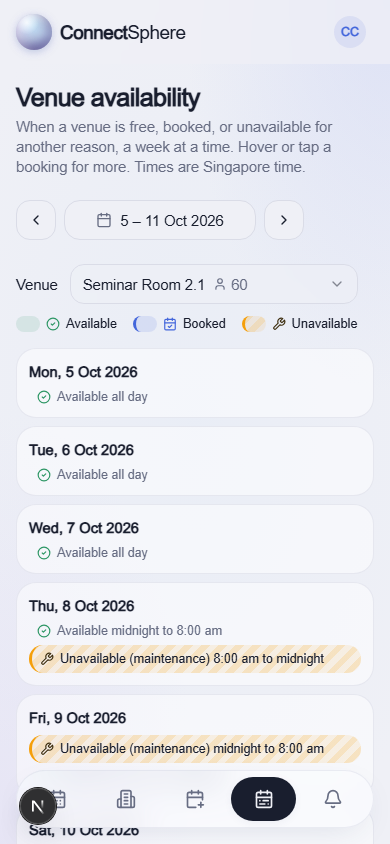
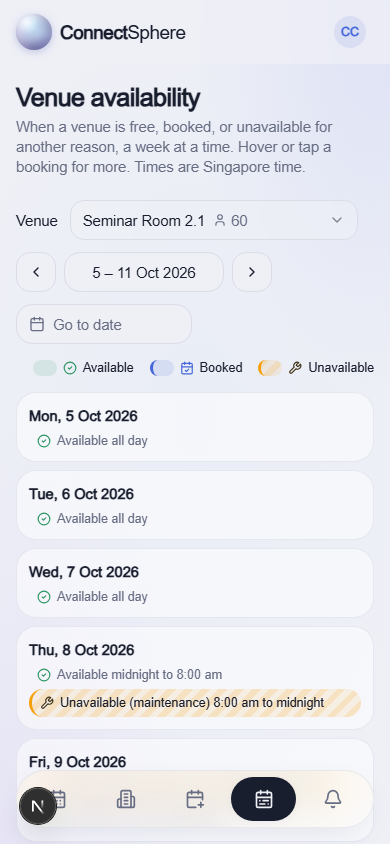
SCRUM-36 lay the calendar's controls out in three rows
Row one holds Record unavailability on the right; row two the venue, the
week (arrows around its dates) and a separate Go to date; row three the
legend on the right. A day with nothing on it says Available all day at
the top of its column, pinned under the date while the grid scrolls,
instead of beside the date.

diff --git a/app/(app)/venues/availability/availability-calendar.tsx b/app/(app)/venues/availability/availability-calendar.tsx
@@ -1,4 +1,4 @@
-import type { CSSProperties, ReactNode } from "react";
+import type { CSSProperties } from "react";
 import {
   CalendarCheck,
   CircleCheck,
@@ -140,13 +140,10 @@ export function AvailabilityCalendar({
   venueName,
   days,
   today,
-  venuePicker,
 }: {
   venueName: string;
   days: AvailabilityDay[];
   today: string;
-  /** The venue filter, shown at the top of the calendar. */
-  venuePicker: ReactNode;
 }) {
   const from = days[0].day;
   const to = days[days.length - 1].day;
@@ -157,8 +154,7 @@ export function AvailabilityCalendar({
       <h2 id="calendar-heading" className="sr-only">
         {venueName}, {range}
       </h2>
-      <div className="flex flex-wrap items-center justify-between gap-3">
-        {venuePicker}
+      <div className="flex justify-end">
         <Legend />
       </div>
 
@@ -238,25 +234,13 @@ function WeekGrid({
                     <span className="text-[11px] font-medium uppercase tracking-wide text-muted-foreground">
                       {formatWeekdayDate(noon(day)).split(",")[0]}
                     </span>
-                    <span className="flex items-baseline gap-2">
-                      <span
-                        className={cn(
-                          "text-xl font-semibold leading-tight",
-                          isToday && "text-primary",
-                        )}
-                      >
-                        {Number(day.slice(8))}
-                      </span>
-                      {/* A day with nothing on it says so where it is seen. */}
-                      {segments.length === 1 && (
-                        <span
-                          aria-hidden
-                          className="flex items-center gap-1 text-[11px] text-success"
-                        >
-                          <CircleCheck className="h-3 w-3" />
-                          Free all day
-                        </span>
+                    <span
+                      className={cn(
+                        "text-xl font-semibold leading-tight",
+                        isToday && "text-primary",
                       )}
+                    >
+                      {Number(day.slice(8))}
                     </span>
                   </div>
                   <ul
@@ -266,6 +250,18 @@ function WeekGrid({
                       backgroundImage: `repeating-linear-gradient(to bottom, transparent 0 ${HOUR_PX - 1}px, hsl(var(--border) / 0.6) ${HOUR_PX - 1}px ${HOUR_PX}px)`,
                     }}
                   >
+                    {/* A day with nothing on it says so at the top of its
+                        column, pinned under the date while the grid scrolls. */}
+                    {segments.length === 1 && (
+                      <li
+                        aria-hidden
+                        data-free-all-day
+                        className="sticky top-16 z-10 flex items-center gap-1 px-2 py-1.5 text-[11px] font-medium text-success"
+                      >
+                        <CircleCheck className="h-3 w-3 shrink-0" />
+                        Available all day
+                      </li>
+                    )}
                     {segments.map((segment) => {
                       const offset =
                         segment.startAt.getTime() - startOfSgDay(day).getTime();
@@ -331,7 +327,7 @@ function Stretch({
         <span className="sr-only" data-summary>
           {words}
         </span>
-        {segment.kind === "free" && hours >= 2 && (
+        {segment.kind === "free" && hours >= 2 && !wholeDay && (
           <span
             aria-hidden
             className="flex items-center gap-1 px-2 pt-1.5 text-[11px] text-muted-foreground/70"

diff --git a/e2e/availability.spec.ts b/e2e/availability.spec.ts
@@ -210,10 +210,12 @@ test.describe("SCRUM-36 / SCRUM-37 — venue availability calendar and recorded 
     const coordinator = await signedIn(browser, "coordinator@test.local");
     await coordinator.goto(calendarFor("ven_boardroom", "2036-06-04"));
 
-    // Every day says so under its date, rather than the grid reading as blank.
-    await expect(
-      coordinator.locator('[data-view="week"]').getByText("Free all day"),
-    ).toHaveCount(7);
+    // Every day says so at the top of its column, rather than reading as blank.
+    const freeAllDay = coordinator.locator(
+      '[data-view="week"] li[data-day] [data-free-all-day]',
+    );
+    await expect(freeAllDay).toHaveCount(7);
+    await expect(freeAllDay.first()).toHaveText("Available all day");
     await expect(
       coordinator.locator('[data-view="week"] li[data-day]'),
     ).toHaveCount(7);
@@ -236,9 +238,9 @@ test.describe("SCRUM-36 / SCRUM-37 — venue availability calendar and recorded 
     });
 
     await expect(heading).toContainText("28 Jan 2036 to 3 Feb 2036");
-    // The week's dates sit between the arrows, and open the date picker.
-    const week = coordinator.getByRole("button", { name: "Go to date" });
-    await expect(week).toContainText("28 Jan – 3 Feb 2036");
+    // The week's dates sit between the arrows.
+    const week = coordinator.getByTestId("week-range");
+    await expect(week).toHaveText("28 Jan – 3 Feb 2036");
     await expect(
       coordinator.locator('[data-view="week"] li[data-day]'),
     ).toHaveCount(7);
@@ -250,7 +252,14 @@ test.describe("SCRUM-36 / SCRUM-37 — venue availability calendar and recorded 
     await expect(heading).toContainText("28 Jan 2036 to 3 Feb 2036");
     await coordinator.getByRole("button", { name: "Previous week" }).click();
     await expect(heading).toContainText("21 Jan 2036 to 27 Jan 2036");
-    await expect(week).toContainText("21 – 27 Jan 2036");
+    await expect(week).toHaveText("21 – 27 Jan 2036");
+
+    // Go to date jumps straight to the week containing the chosen day.
+    await coordinator.getByRole("button", { name: "Go to date" }).click();
+    await coordinator.getByRole("menuitem", { name: "Next month" }).click();
+    // Wed 20 Feb 2036 is in the week of Mon 18 Feb.
+    await coordinator.locator('[data-date="2036-02-20"]').click();
+    await expect(week).toHaveText("18 – 24 Feb 2036");
   });
 
   test("SCRUM-36 — a screen reader hears the venue and date for each day", async ({

diff --git a/app/(app)/venues/availability/page.tsx b/app/(app)/venues/availability/page.tsx
@@ -11,7 +11,7 @@ import {
 } from "@/lib/venue-availability";
 import { AvailabilityCalendar } from "./availability-calendar";
 import { formatWeekRange, parseWeek } from "./week";
-import { VenuePicker, WeekNav } from "./week-controls";
+import { GoToDate, VenuePicker, WeekNav } from "./week-controls";
 import { RecordUnavailabilityForm } from "./record-unavailability-form";
 
 type SearchParams = Promise<Record<string, string | string[] | undefined>>;
@@ -68,30 +68,34 @@ export default async function AvailabilityPage({
       </div>
 
       {venue ? (
-        <>
-          <div className="flex flex-wrap items-center justify-between gap-3">
-            <WeekNav
-              venueId={venue.id}
-              week={from}
-              label={formatWeekRange(from, to)}
-            />
-            {can(session.user, "unavailability:record") && (
+        <div className="space-y-4">
+          {/* Row 1 — Venue Staff record unavailability, on the right. */}
+          {can(session.user, "unavailability:record") && (
+            <div className="flex justify-end">
               <RecordUnavailabilityForm
                 key={venue.id}
                 venueId={venue.id}
                 venueName={venue.name}
               />
-            )}
+            </div>
+          )}
+          {/* Row 2 — which venue, which week, or jump to a date. */}
+          <div className="flex flex-wrap items-center gap-3">
+            <VenuePicker venues={venues} venueId={venue.id} week={from} />
+            <WeekNav
+              venueId={venue.id}
+              week={from}
+              label={formatWeekRange(from, to)}
+            />
+            <GoToDate venueId={venue.id} week={from} />
           </div>
+          {/* Row 3 (the legend) and the calendar itself. */}
           <AvailabilityCalendar
             venueName={venue.name}
             days={availabilityByDay(blockers, from, to)}
             today={today}
-            venuePicker={
-              <VenuePicker venues={venues} venueId={venue.id} week={from} />
-            }
           />
-        </>
+        </div>
       ) : (
         <p className="text-sm text-muted-foreground">
           There are no venues in the catalogue yet.

diff --git a/app/(app)/venues/availability/week-controls.tsx b/app/(app)/venues/availability/week-controls.tsx
@@ -32,8 +32,7 @@ function useShow(venueId: string, week: string) {
 
 /**
  * SCRUM-36 AC7 — which week the calendar shows: arrows either side of the
- * week's dates, and the dates themselves open a calendar to jump to any week.
- * Also keeps an open calendar fresh (SCRUM-37 AC1).
+ * week's dates. Also keeps an open calendar fresh (SCRUM-37 AC1).
  */
 export function WeekNav({
   venueId,
@@ -73,16 +72,13 @@ export function WeekNav({
       >
         <ChevronLeft className="h-4 w-4" />
       </Button>
-      <DatePicker
-        id="goToDate"
-        label="Go to"
-        value=""
-        openOn={week}
-        display={label}
-        allowPast
-        onChange={(day) => show({ week: day })}
-        className="min-w-48 justify-center"
-      />
+      <p
+        data-testid="week-range"
+        aria-live="polite"
+        className="flex h-10 min-w-40 items-center justify-center rounded-lg border bg-background px-3 text-sm font-medium"
+      >
+        {label}
+      </p>
       <Button
         variant="outline"
         size="icon"
@@ -92,6 +88,23 @@ export function WeekNav({
         <ChevronRight className="h-4 w-4" />
       </Button>
     </div>
+  );
+}
+
+/** SCRUM-36 AC7 — jump straight to the week containing any date. */
+export function GoToDate({ venueId, week }: { venueId: string; week: string }) {
+  const show = useShow(venueId, week);
+  return (
+    <DatePicker
+      id="goToDate"
+      label="Go to"
+      value=""
+      openOn={week}
+      placeholder="Go to date"
+      allowPast
+      onChange={(day) => show({ week: day })}
+      className="w-44"
+    />
   );
 }
 

diff --git a/docs/testing/SCRUM-36.md b/docs/testing/SCRUM-36.md
@@ -77,7 +77,7 @@ phone and to a screen reader, where a grid of every venue would not.
 | Pre-conditions | Nothing on the Executive Boardroom in the week of 2 to 8 Jun 2036. |
 | Test Steps | 1. Open the calendar for the Executive Boardroom and go to 4 Jun 2036. |
 | Test Data | — |
-| Expected Result | Seven days, Monday 2 Jun to Sunday 8 Jun, each with "Free all day" under its date, and each read to a screen reader as "Available all day". |
+| Expected Result | Seven days, Monday 2 Jun to Sunday 8 Jun, each with "Available all day" at the top of its column (pinned there while the grid scrolls), and each read to a screen reader as "Available all day". |
 
 **Automated by:** `tests/unit/venue-availability.test.ts` › "SCRUM-36 AC6 — a venue with nothing in the range is free across every day of it, not empty"; `e2e/availability.spec.ts` › "SCRUM-36 AC6 — a venue with nothing in the week reads as available throughout, not blank"
 
@@ -88,9 +88,9 @@ phone and to a screen reader, where a grid of every venue would not.
 | Test Case ID | TC-36-05 |
 | Test Scenario | [Positive, Boundary] AC 7: the view can be filtered by date range: a week at a time, and any week can be shown |
 | Pre-conditions | — |
-| Test Steps | 1. Open **Availability**. <br> 2. Click the week's dates between the arrows and pick 1 Feb 2036 (a Friday). <br> 3. Click the next-week arrow, then the previous-week arrow twice. |
+| Test Steps | 1. Open **Availability**. <br> 2. With **Go to date**, pick 1 Feb 2036 (a Friday). <br> 3. Click the next-week arrow, then the previous-week arrow twice. <br> 4. With **Go to date**, pick 20 Feb 2036 (a Wednesday). |
 | Test Data | — |
-| Expected Result | Step 1: this week, Monday to Sunday, today's column shaded. Step 2: "28 Jan – 3 Feb 2036" between the arrows, and seven days. Step 3: "4 – 10 Feb 2036", then "21 – 27 Jan 2036". The week is in the address, so the view can be shared. |
+| Expected Result | Step 1: this week, Monday to Sunday, today's column shaded. Step 2: "28 Jan – 3 Feb 2036" between the arrows, and seven days. Step 3: "4 – 10 Feb 2036", then "21 – 27 Jan 2036". Step 4: "18 – 24 Feb 2036". The venue, week and Go to date sit on one row. The week is in the address, so the view can be shared. |
 
 **Automated by:** `tests/unit/availability-week.test.ts` › the three "SCRUM-36 AC7 — …" cases, "walks back across a month and year end" and "ignores a malformed or impossible date"; `e2e/availability.spec.ts` › "SCRUM-36 AC7 — the calendar shows a week, Monday to Sunday, and moves between weeks"
 
